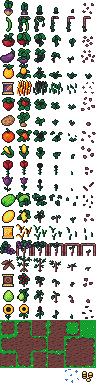
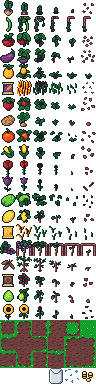
Keep seeds in envelopes so they look different from crops.

Changed region(s): [[0.5, 0.9375, 0.6562, 1.0]]

diff --git a/src/game.scss b/src/game.scss
@@ -1,5 +1,5 @@
 $plotColor: rgb(20, 160, 46);
-$fontColor: rgb(227, 230, 255);
+$fontColor: rgb(59, 23, 37);
 $tileWidth: 4.8rem;
 $tileHeight: 4.8rem;
 
@@ -61,6 +61,8 @@ a, a:visited {
   height: $tileHeight;
   background-size: (6 * $tileWidth) (24 * $tileHeight);
   background-image: url('../img/tiles.png');
+  background-position-x: (0 * $tileWidth);
+  background-position-y: (-23 * $tileHeight);
 }
 
 .farm {
@@ -153,6 +155,10 @@ a, a:visited {
   background-position-x: (-4 * $tileWidth);
   background-position-y: (-23 * $tileHeight);
 }
+.tile.seeds {
+  background-position-x: (-3 * $tileWidth);
+  background-position-y: (-23 * $tileHeight);
+}
 
 @include crop('turnip', 0);
 @include crop('chile', 1);
@@ -210,10 +216,6 @@ $itemDetailBorder: rgb(187, 117, 71);
 $itemDetailBackground: rgb(219, 164, 99);
 
 /* MARKET */
-.buffer {
-  flex-grow: 1;
-}
-
 .store,
 .market {
   background: $storeBackground;
@@ -225,18 +227,12 @@ $itemDetailBackground: rgb(219, 164, 99);
 
     .crop {
       align-items: center;
-      position: relative;
 
       .name {
         font-size: 1.6rem;
         margin-left: 0.4rem;
-        color: rgb(59, 23, 37);
         text-shadow: 0.05rem 0.05rem 0.1rem rgb(254, 243, 192, .5);
         text-shadow: 0.05rem 0.05rem 0.1rem rgb(18, 32, 32);
-      }
-
-      .tile {
-        transform: scale(0.75);
       }
 
       .amount {
@@ -248,7 +244,6 @@ $itemDetailBackground: rgb(219, 164, 99);
         left: 0;
         bottom: 0;
         font-size: 1.6rem;
-        color: rgb(59, 23, 37);
         text-shadow: 0.05rem 0.05rem 0.1rem rgb(254, 243, 192, .5);
         text-shadow: 0.05rem 0.05rem 0.1rem rgb(18, 32, 32);
       }
@@ -256,6 +251,7 @@ $itemDetailBackground: rgb(219, 164, 99);
   }
 }
 
+.inventory > *.active,
 .slot {
   background-color: $itemBackground;
   border: 0.1rem solid $itemBorder;
@@ -301,6 +297,16 @@ $itemDetailBackground: rgb(219, 164, 99);
 }
 
 /* CONTROLS */
+.inventory {
+  background: $storeBackground;
+  border: 0.1rem solid $storeBorder;
+  padding: 0.1rem;
+}
+.inventory > * {
+  background-color: $itemBackground;
+  border: 0.1rem solid $itemBorder;
+  position: relative;
+}
 .controls {
   justify-content: space-around;
 }
@@ -356,6 +362,10 @@ abbr[title="and"] {
 
 .capitalize {
   text-transform: capitalize;
+}
+
+.small {
+  transform: scale(0.75);
 }
 
 @media screen and (min-width:40em) {

diff --git a/src/renderer.js b/src/renderer.js
@@ -20,12 +20,24 @@ const renderCash = (cash) => {
   return html;
 };
 
+const renderSeeds = (crop, klass = '') => {
+  let html = '';
+  html += `<span class="tile seeds ${klass}">`;
+  html += `<span class="tile ${crop.type} stage6 small"></span>`;
+  html += '</span>';
+  return html;
+};
+
 const renderCrop = (crop, type) => {
   const name = type === 'store' ? `${crop.type} ${crop.seed}` : crop.type;
 
   let html = '';
   html += '<div class="row crop">';
-  html += `<span class="tile ${crop.type} stage6"></span>`;
+  if (type === 'store') {
+    html += renderSeeds(crop, 'small');
+  } else {
+    html += `<span class="tile ${crop.type} stage6 small"></span>`;
+  }
   html += `<span class="capitalize name">${name}</span>`;
   html += '</div>';
   return html;
@@ -166,7 +178,15 @@ const renderTool = (tool) => {
 
 const renderInventory = (farm) => {
   farm.inventory.forEach((seed, index) => {
-    const html = seed ? `${seed.type} ${seed.amount}` : '';
+    let html  = '';
+
+    if (seed) {
+      html += renderSeeds(seed);
+      html += '<span></span>';
+    } else {
+      html += '<span class="tile"></span>';
+      html += '<span></span>';
+    }
 
     renderIfChanged(`#slot${index}`, html);
   });

diff --git a/src/index.html b/src/index.html
@@ -16,14 +16,19 @@
       <div class="farm col" id="farm"></div>
       <div class="store col" id="store"></div>
       <div class="market col" id="market"></div>
-      <div class="buffer"></div>
-      <div class="controls row">
-        <div class="button hoe" id="hoe">Hoe</div>
-        <div class="button water" id="water">Water</div>
-        <div class="button" id="slot0"></div>
-        <div class="button" id="slot1"></div>
-        <div class="button" id="slot2"></div>
-        <div class="button" id="slot3"></div>
+      <div class="inventory row">
+        <div id="hoe">
+          <span class="tile">H</span>
+          <span></span>
+        </div>
+        <div id="water">
+          <span class="tile">W</span>
+          <span></span>
+        </div>
+        <div id="slot0"></div>
+        <div id="slot1"></div>
+        <div id="slot2"></div>
+        <div id="slot3"></div>
       </div>
       <div class="controls row">
         <div class="button buy" id="buy">Buy</div>

diff --git a/src/farm.js b/src/farm.js
@@ -162,6 +162,10 @@ Farm.create = () => {
   const inventory = [];
   const cash = 500;
 
+  while (inventory.length < MAX_INVENTORY_SIZE) {
+    inventory.push(undefined);
+  }
+
   for (let row = 0; row < rows; row += 1) {
     land[row] = [];
 
